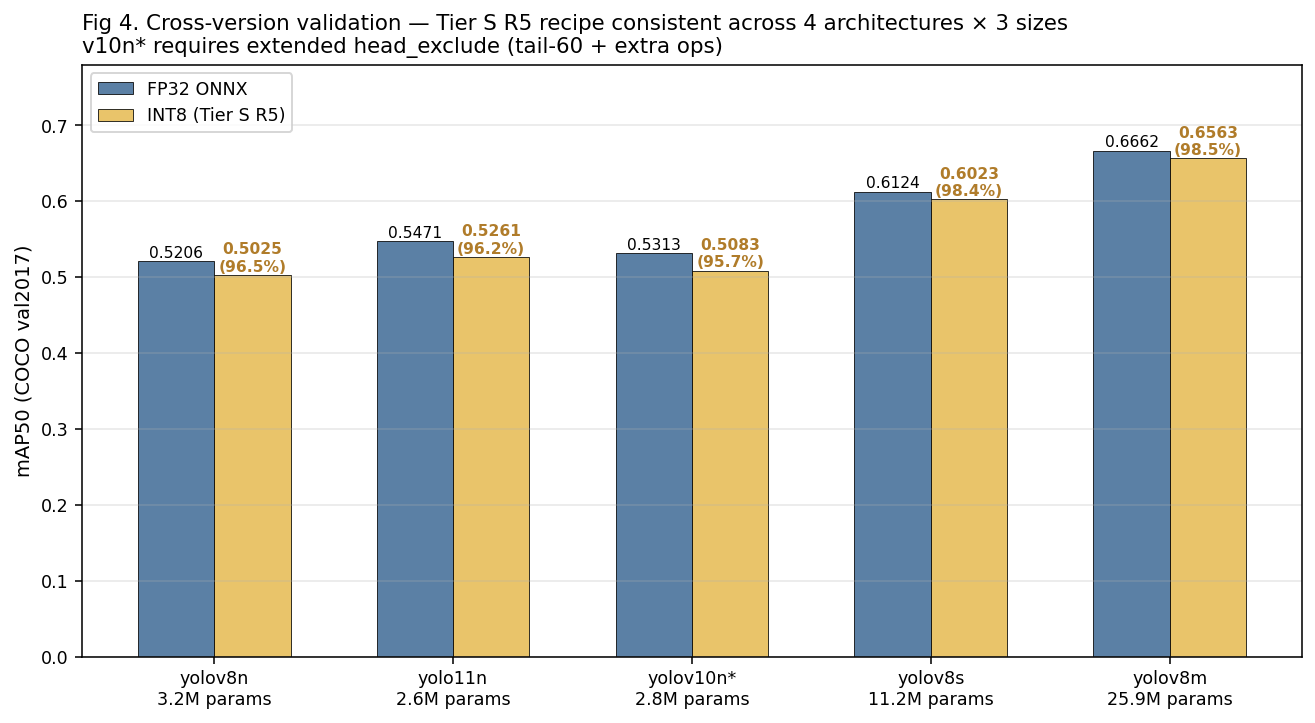
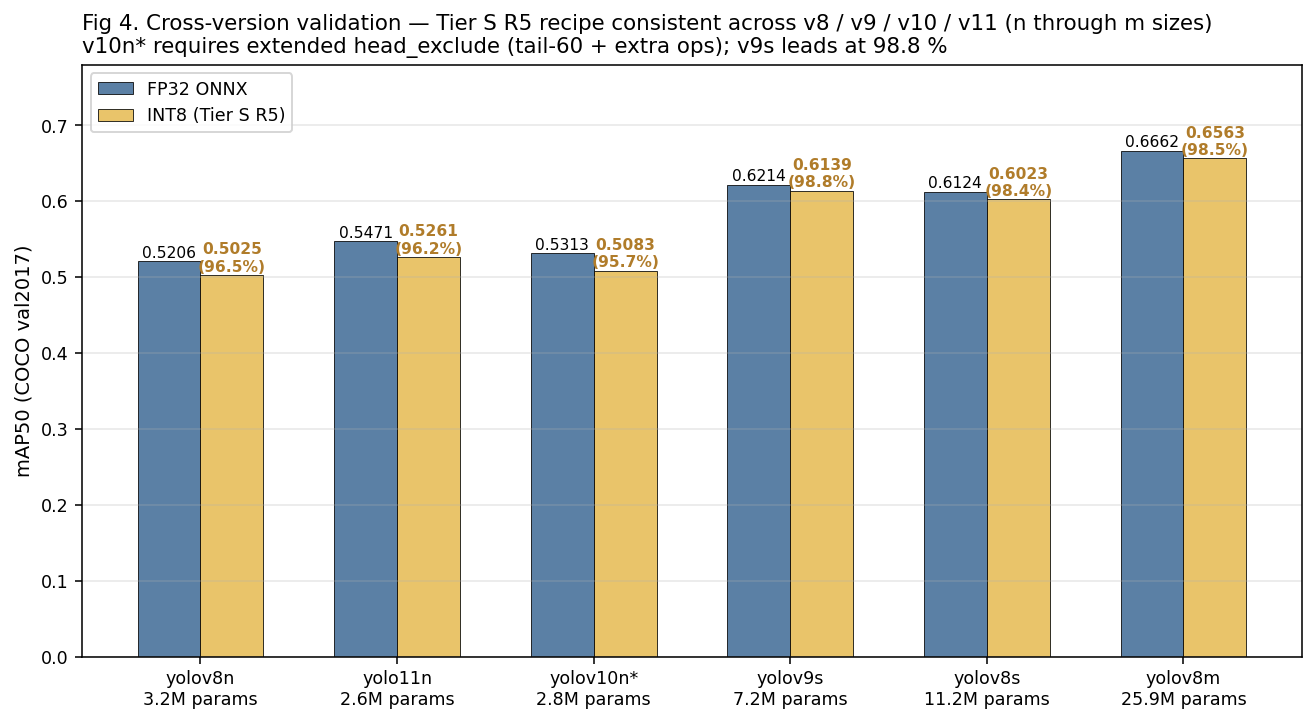
dev(narugo): add yolov9s to cross-version validation matrix
Round out family coverage to v8/v9/v10/v11 (sizes n / s / m all in
play). yolov9s + COCO + Tier S random128 R5 lands at 98.8% retention
— highest of any tested cell, consistent with the GELAN backbone's
reputation for being PTQ-friendly. Updates Fig 4 caption + title +
the §1 / §3.2 / §9 retention tables.

diff --git a/plans/YOLO-INT8-PTQ-CALIBRATION-RECIPE.assets/make_plots.py b/plans/YOLO-INT8-PTQ-CALIBRATION-RECIPE.assets/make_plots.py
@@ -242,6 +242,7 @@ def fig4_cross_version():
         ('yolov8n', 'v8',  3.2, 0.5206, 0.5025, 'tail-24'),
         ('yolo11n', 'v11', 2.6, 0.5471, 0.5261, 'tail-24'),
         ('yolov10n*', 'v10', 2.8, 0.5313, 0.5083, 'tail-60'),
+        ('yolov9s', 'v9',  7.2, 0.6214, 0.6139, 'tail-24'),
         ('yolov8s', 'v8',  11.2, 0.6124, 0.6023, 'tail-24'),
         ('yolov8m', 'v8',  25.9, 0.6662, 0.6563, 'tail-24'),
     ]
@@ -272,8 +273,9 @@ def fig4_cross_version():
     ax.set_xticklabels(labels, fontsize=9)
     ax.set_ylabel('mAP50 (COCO val2017)')
     ax.set_title('Fig 4. Cross-version validation — Tier S R5 recipe consistent across '
-                 '4 architectures × 3 sizes\n'
-                 'v10n* requires extended head_exclude (tail-60 + extra ops)',
+                 'v8 / v9 / v10 / v11 (n through m sizes)\n'
+                 'v10n* requires extended head_exclude (tail-60 + extra ops); '
+                 'v9s leads at 98.8 %',
                  loc='left')
     ax.legend(loc='upper left')
     ax.grid(axis='y', alpha=0.3)

diff --git a/plans/YOLO-INT8-PTQ-CALIBRATION-RECIPE.md b/plans/YOLO-INT8-PTQ-CALIBRATION-RECIPE.md
@@ -5,7 +5,7 @@
 > - **Hardware**: AMD EPYC 7J13, 16 cores, AVX2, `device=cpu`, `batch=1`, `imgsz=640`
 > - **Software**: ultralytics 8.3.40, onnxruntime 1.23.2, opset 14, QDQ format
 > - **Datasets**: COCO val2017 (5 000 images, 80 classes); private 4-class document-layout dataset (2 964 val images, yolo11n trained on 23 783 images)
-> - **Models tested**: yolov8n / yolov8s / yolov8m / yolo11n / yolov10n
+> - **Models tested**: yolov8n / yolov8s / yolov8m / yolo11n / yolov10n / yolov9s
 > - **Date**: 2026-04-28
 >
 > All experimental scripts live under `tmp_embed/quant_coreset*/` (gitignored). Key code blocks are inlined in §10 below for reproducibility.
@@ -75,13 +75,14 @@ quantize_static(
 | yolov8n | 3.2 M | 0.5206 | 0.5025 | **96.5%** |
 | yolo11n | 2.6 M | 0.5471 | 0.5261 | **96.2%** |
 | yolov10n | 2.8 M | 0.5313 | 0.5083 | **95.7%** |
+| yolov9s | 7.2 M | 0.6214 | 0.6139 | **98.8%** |
 | yolov8s | 11.2 M | 0.6124 | 0.6023 | **98.3%** |
 | yolov8m | 25.9 M | 0.6662 | 0.6563 | **98.5%** |
 | in-house 4-class yolo11n | 2.6 M | 0.9568 | 0.9185 | **96.0%** |
 
 ![Cross-version retention](YOLO-INT8-PTQ-CALIBRATION-RECIPE.assets/fig04_cross_version.png)
 
-*Figure 4. Side-by-side bars of FP32 ONNX (blue) vs INT8 Tier S (gold) across the 5 (version, size) cells we ran on COCO val2017. Retention percentages annotated on the gold bars. The yolov10n* bar uses the extended head_exclude variant — without it, INT8 collapses to 0%.*
+*Figure 4. Side-by-side bars of FP32 ONNX (blue) vs INT8 Tier S (gold) across the 6 (version, size) cells we ran on COCO val2017 (v8n / v8s / v8m / v9s / v10n / v11n). Retention percentages annotated on the gold bars. The yolov10n* bar uses the extended head_exclude variant — without it, INT8 collapses to 0%. yolov9s leads at 98.8 % — the GELAN backbone is unusually PTQ-friendly.*
 
 Seed-stable across 3 random seeds within ±0.15 pp.
 
@@ -138,6 +139,7 @@ The findings in this document supersede the calibration recipe in `QUANTIZATION-
 | yolov8m | `/data/yolov8/yolov8m.pt` | 25.89 M | 0.6662 | Size-scaling |
 | yolo11n | `/data/yolov8/yolo11n.pt` | 2.62 M | 0.5471 | Version cross-check |
 | yolov10n | `/data/yolov8/tmp_embed/weights/yolov10n.pt` | 2.76 M | 0.5313 | NMS-free head test |
+| yolov9s | `/data/yolov8/tmp_embed/weights/yolov9s.pt` | 7.20 M | 0.6214 | GELAN backbone test |
 | in-house yolo11n | `runs/yolo_full_4label_yolo11n/weights/best.pt` | 2.62 M | 0.9568 | Narrow-data regime |
 
 ### 3.3 Common Pipeline
@@ -632,7 +634,8 @@ This table is what to expect when you apply the universal Tier S recipe above. N
 | yolo11s/m/l/x | — | — | (97-99% expected) | not tested |
 | **yolov10n** | 0.5313 | 0.5083 | **95.7%** | tested; needs `skip_symbolic_shape=True` |
 | yolov10s/m/l/x | — | — | (97-99% expected) | not tested |
-| yolov9 (any size) | — | — | (95-98% expected) | not tested in this study; sweep in `QUANTIZATION-EXPERIMENTS.md` shows 97.1% under MinMax — Tier S should be ≥ that |
+| **yolov9s** | 0.6214 | 0.6139 | **98.8%** | tested; highest retention of any model in this study (GELAN backbone is unusually PTQ-friendly) |
+| yolov9 t / m / c / e | — | — | (97-99% expected by trend) | not tested directly; sweep in `QUANTIZATION-EXPERIMENTS.md` shows 97.1% under MinMax — Tier S should be ≥ that |
 | **yolov6** | — | — | — | **deviation possible**: OwLite reports Percentile 99.9 (not 99.999) is best for v6 due to RepVGG fused conv blocks. Test before deploying. |
 | **yolov5u** | — | — | (96-97% expected) | sweep `QUANTIZATION-EXPERIMENTS.md` shows 97.5% under MinMax. SiLU stem is notoriously bad for naive INT8; if catastrophic, try the SiLU TensorRT plugin instead (NVIDIA TensorRT issue #1114). |
 | RT-DETR | — | — | — | unsupported; FP32 ONNX eval already gives mAP=0 in the ult 8.3.40 pipeline |
